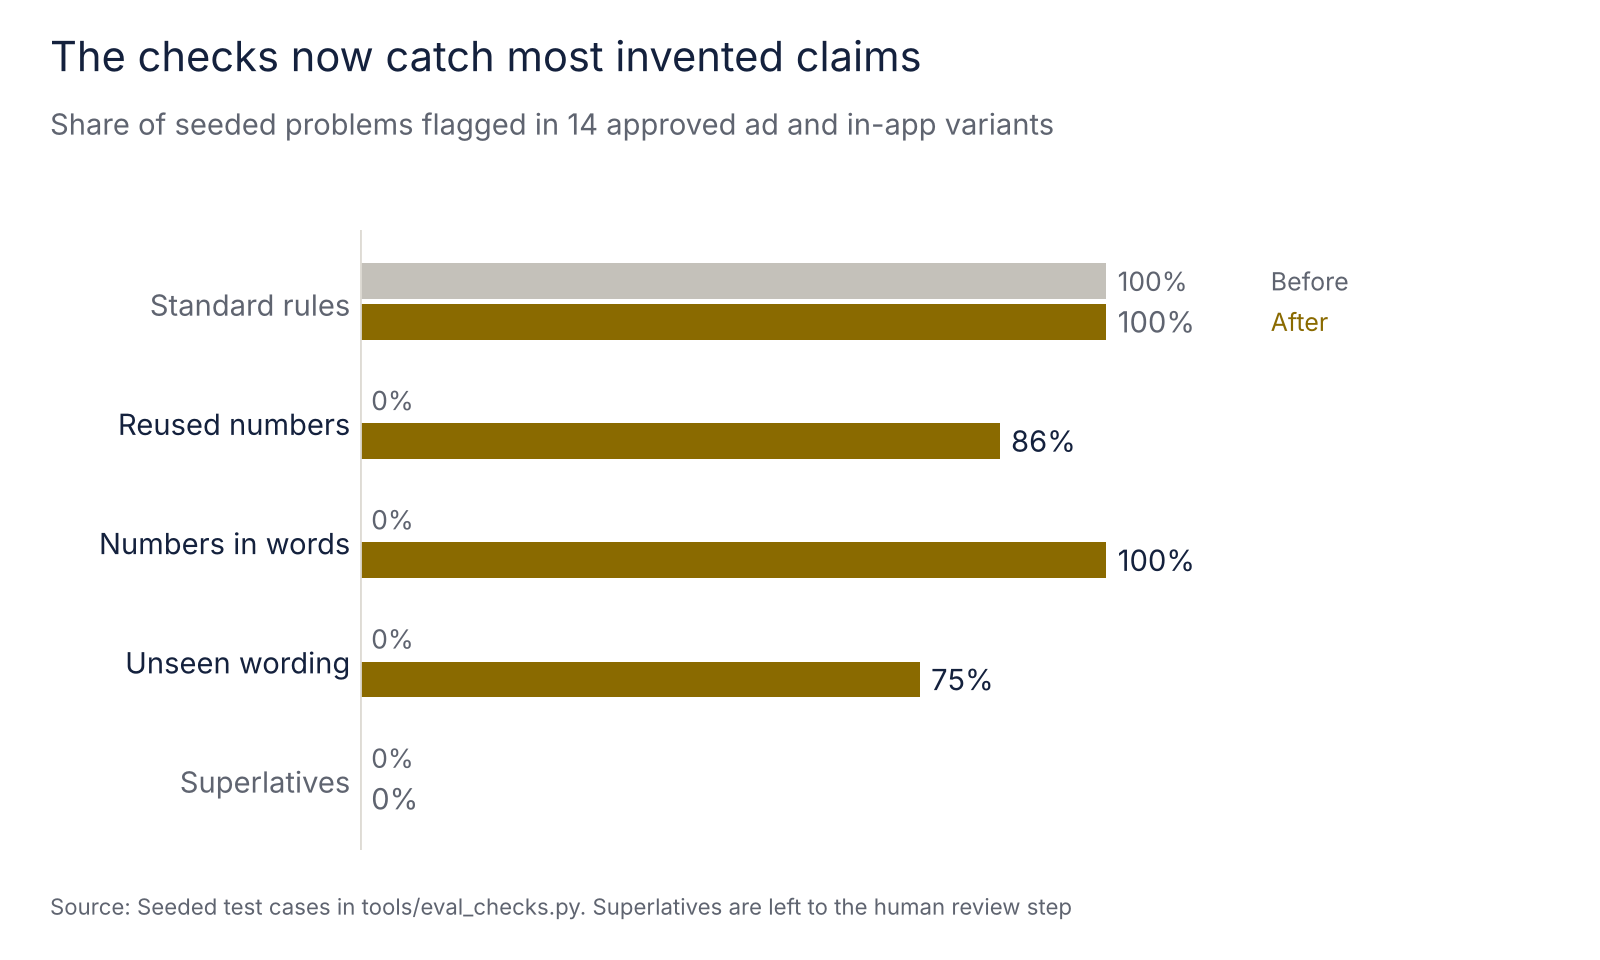
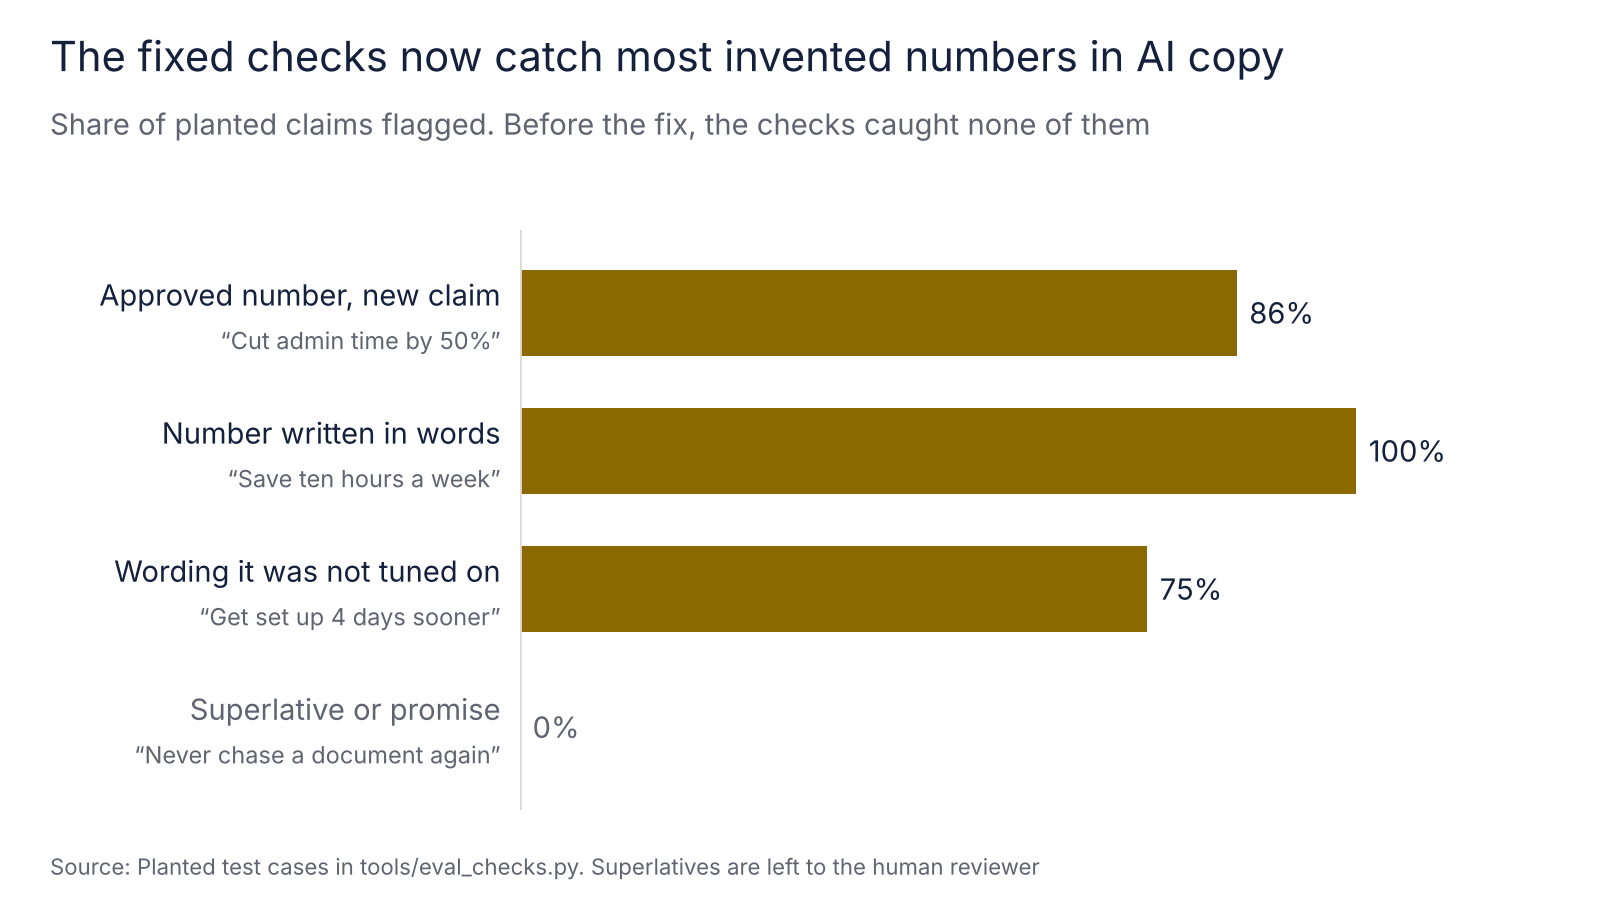
Charts a first-time reader can follow: plain headlines and explained labels

diff --git a/tools/brand_style.py b/tools/brand_style.py
@@ -8,6 +8,7 @@ Colours are validated with the dataviz palette checks (lightness band, chroma, c
 import matplotlib
 import matplotlib.pyplot as plt
 import matplotlib.ticker
+import matplotlib.transforms
 
 INK = "#14213d"        # navy: headlines, values, key labels
 MUTED = "#5f6470"      # deck, axis labels, source line (5.9:1 on white)
@@ -93,9 +94,9 @@ VALUE = 10.5                                         # value and category label 
 
 def chart(height=4.5, label_in=1.6, xaxis=False, right_in=0.55):
     """A figure with fixed margins. label_in is the room for category labels on the left;
-    xaxis reserves room for tick labels under the plot."""
+    xaxis reserves room under the plot: True for tick labels plus an axis title, "ticks" for tick labels only."""
     fig = plt.figure(figsize=(WIDTH, height), dpi=200)
-    bottom_in = 0.85 if xaxis else 0.55
+    bottom_in = 0.8 if xaxis == "ticks" else 1.0 if xaxis else 0.55
     left = (LEFT_IN + label_in) / WIDTH
     ax = fig.add_axes([left, bottom_in / height, 1 - left - right_in / WIDTH,
                        1 - (PLOT_TOP_IN + bottom_in) / height])
@@ -123,7 +124,23 @@ def save(fig, path):
     plt.close(fig)
 
 
-def hbar(ax, labels, values, highlight, fmt, color, xmax=None):
+def _row_labels(ax, ys, labels, highlight, sublabels=None):
+    """Category labels at the left of the plot, with an optional smaller second line that explains them."""
+    ax.set_yticks(ys)
+    if not sublabels:
+        ax.set_yticklabels(labels)
+        for i, t in enumerate(ax.get_yticklabels()):
+            t.set_color(INK if i in highlight else MUTED)
+        return
+    ax.set_yticklabels([""] * len(ys))
+    tr = matplotlib.transforms.blended_transform_factory(ax.transAxes, ax.transData)
+    for i, (y, lab, sub) in enumerate(zip(ys, labels, sublabels)):
+        ax.text(-0.02, y + 0.13, lab, transform=tr, ha="right", va="center", fontsize=VALUE,
+                color=INK if i in highlight else MUTED)
+        ax.text(-0.02, y - 0.2, sub, transform=tr, ha="right", va="center", fontsize=8.5, color=MUTED)
+
+
+def hbar(ax, labels, values, highlight, fmt, color, xmax=None, sublabels=None):
     """Horizontal bars, first item at the top. highlight: set of indexes drawn in the project colour."""
     n = len(values)
     ys = list(range(n))[::-1]
@@ -133,14 +150,13 @@ def hbar(ax, labels, values, highlight, fmt, color, xmax=None):
     for y, v, i in zip(ys, values, range(n)):
         c = color if i in highlight else CONTEXT
         ax.barh(y, v, height=0.62, color=c, linewidth=0)
-        ha, x = ("left", v + span * 0.015) if v >= 0 else ("right", v - span * 0.015)
-        ax.text(x, y, fmt(v), va="center", ha=ha, fontsize=VALUE, color=INK if i in highlight else MUTED)
-    ax.set_yticks(ys)
-    ax.set_yticklabels(labels)
-    for i, t in enumerate(ax.get_yticklabels()):
-        t.set_color(INK if i in highlight else MUTED)
+        small_neg = v < 0 and abs(v) < span * 0.05   # label a tiny negative on the right, like the rest
+        ha, x = ("left", max(v, 0) + span * 0.015) if v >= 0 or small_neg else ("right", v - span * 0.015)
+        ax.text(x, y, fmt[i] if isinstance(fmt, list) else fmt(v), va="center", ha=ha, fontsize=VALUE, color=INK if i in highlight else MUTED)
+    _row_labels(ax, ys, labels, highlight, sublabels)
     ax.set_ylim(-0.6, n - 0.4)
-    ax.set_xlim(lo - (span * 0.16 if lo < 0 else 0), hi + span * 0.16)
+    big_neg = lo < -span * 0.05
+    ax.set_xlim(lo - span * 0.3 if big_neg else min(lo, 0), hi + span * 0.16)
     ax.set_xticks([])
     ax.axvline(0, color=HAIRLINE, linewidth=1)
     return ax
@@ -153,7 +169,7 @@ def vbar(ax, labels, values, highlight, fmt, color, ymax=None):
     for x, v, i in zip(xs, values, range(len(values))):
         c = color if i in highlight else CONTEXT
         ax.bar(x, v, width=0.62, color=c, linewidth=0)
-        ax.text(x, v + hi * 0.02, fmt(v), ha="center", va="bottom", fontsize=VALUE,
+        ax.text(x, v + hi * 0.02, fmt[i] if isinstance(fmt, list) else fmt(v), ha="center", va="bottom", fontsize=VALUE,
                 color=INK if i in highlight else MUTED)
     ax.set_xticks(list(xs))
     ax.set_xticklabels(labels)
@@ -165,7 +181,7 @@ def vbar(ax, labels, values, highlight, fmt, color, ymax=None):
     return ax
 
 
-def dotrange(ax, labels, est, lo, hi, highlight, fmt, color, xlim=None, zero=True):
+def dotrange(ax, labels, est, lo, hi, highlight, fmt, color, xlim=None, zero=True, sublabels=None):
     """Estimate with its interval: a dot on a range line, first item at the top."""
     n = len(est)
     ys = list(range(n))[::-1]
@@ -175,10 +191,7 @@ def dotrange(ax, labels, est, lo, hi, highlight, fmt, color, xlim=None, zero=Tru
         ax.scatter([e], [y], s=80, color=c, zorder=3, linewidths=0)
         ax.text(e, y + 0.26, fmt(e), ha="center", va="bottom", fontsize=VALUE,
                 color=INK if i in highlight else MUTED)
-    ax.set_yticks(ys)
-    ax.set_yticklabels(labels)
-    for i, t in enumerate(ax.get_yticklabels()):
-        t.set_color(INK if i in highlight else MUTED)
+    _row_labels(ax, ys, labels, highlight, sublabels)
     ax.set_ylim(-0.6, n - 0.2)
     if xlim:
         ax.set_xlim(*xlim)

diff --git a/tools/make_charts.py b/tools/make_charts.py
@@ -14,24 +14,24 @@ HL = b.PROJECT["marketing-workflows"]
 before = pd.read_csv(EV / "summary_before.csv").set_index("case")
 after = pd.read_csv(EV / "summary_after.csv").set_index("case")
 groups = [
-    ("Standard rules", ["too_long", "banned_word", "invented_number", "dash", "exclamation", "security_wording",
-                        "ai_wording", "overstated_automation"]),
-    ("Reused numbers", ["approved_number_new_claim"]),
-    ("Numbers in words", ["number_in_words"]),
-    ("Unseen wording", ["fresh_reused_number", "fresh_number_in_words"]),
-    ("Superlatives", ["superlative", "absolute_promise"]),
+    ("Approved number, new claim", "\u201cCut admin time by 50%\u201d", ["approved_number_new_claim"]),
+    ("Number written in words", "\u201cSave ten hours a week\u201d", ["number_in_words"]),
+    ("Wording it was not tuned on", "\u201cGet set up 4 days sooner\u201d", ["fresh_reused_number", "fresh_number_in_words"]),
+    ("Superlative or promise", "\u201cNever chase a document again\u201d", ["superlative", "absolute_promise"]),
 ]
-labels, pb, pa = [], [], []
-for label, cases in groups:
-    n = before.loc[cases, "cases"].sum()
+labels, subs, pa, pb = [], [], [], []
+for label, example, cases in groups:
+    n = after.loc[cases, "cases"].sum()
     labels.append(label)
-    pb.append(before.loc[cases, "flagged"].sum() / n * 100)
+    subs.append(example)
     pa.append(after.loc[cases, "flagged"].sum() / n * 100)
+    pb.append(before.loc[cases, "flagged"].sum() / n * 100)
+assert max(pb) == 0, "the subtitle says the original checks caught none of these"
 
-fig, ax = b.chart(height=4.8, label_in=1.55, right_in=0.9)
-b.paired_hbar(ax, labels, pb, pa, {1, 2, 3}, lambda v: f"{v:.0f}%", HL)
-b.titles(fig, "The checks now catch most invented claims",
-         "Share of seeded problems flagged in 14 approved ad and in-app variants")
-b.credit(fig, "Seeded test cases in tools/eval_checks.py. Superlatives are left to the human review step")
+fig, ax = b.chart(height=4.6, label_in=2.35)
+b.hbar(ax, labels, pa, {0, 1, 2}, lambda v: f"{v:.0f}%", HL, xmax=100, sublabels=subs)
+b.titles(fig, "The fixed checks now catch most invented numbers in AI copy",
+         "Share of planted claims flagged. Before the fix, the checks caught none of them")
+b.credit(fig, "Planted test cases in tools/eval_checks.py. Superlatives are left to the human reviewer")
 b.save(fig, OUT / "01_what_the_checks_catch.png")
 print("chart saved")

diff --git a/README.md b/README.md
@@ -46,7 +46,7 @@ Full history: [`outputs/run_log.md`](outputs/run_log.md). The point is not that 
 
 **The point of the checks is to let a reviewer stop checking rules and spend their time on claims.** To see how far that can be trusted, I seeded known problems into the 14 approved variants from the example runs and counted what the checks flagged ([`tools/eval_checks.py`](tools/eval_checks.py)).
 
-![The checks now catch most invented claims, but claims still need a person](charts/01_what_the_checks_catch.png)
+![The fixed checks now catch most invented numbers in AI copy](charts/01_what_the_checks_catch.png)
 
 - **The rules the checks were built for are fully covered:** 112 of 112 seeded rule breaks caught (length, banned words, invented numbers, dashes, exclamation marks, security and AI wording, overstated automation), with no false alarms on the 14 clean variants
 - **The test found a real gap, now fixed:** the original check approved numbers on their own, so "Cut admin by 50%" passed because 50 appears in "5 to 50 staff", and "Save ten hours a week" passed because the number was written in words. Both kinds got through 0 of 28 times. The checker now approves each number together with the word that gives it meaning, and flags numbers written in words: 26 of 28 caught, and 21 of 28 on fresh phrasings written after the fix
